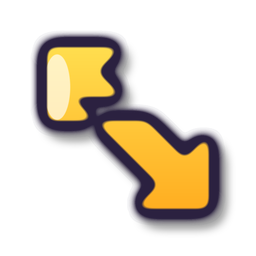
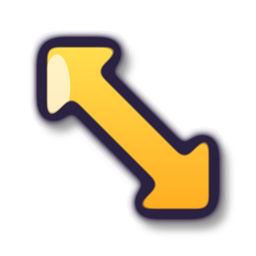
Draw the simple styles' move and resize arrows from convex pieces

Changed region(s): [[0.125, 0.3125, 0.625, 0.5625]]

diff --git a/tools/make_cursors.py b/tools/make_cursors.py
@@ -41,9 +41,6 @@ IBEAM = [(92, 36), (164, 36), (164, 54), (138, 54), (138, 202), (164, 202), (164
 
 HAND = [(104, 12), (124, 12), (132, 20), (132, 96), (160, 96), (168, 104), (168, 110), (190, 110), (198, 118), (198, 124),
         (214, 124), (222, 132), (222, 196), (200, 236), (110, 236), (96, 222), (60, 170), (60, 150), (68, 142), (80, 142), (96, 160), (96, 20)]
-DOUBLE = [(14, 128), (66, 76), (66, 110), (190, 110), (190, 76), (242, 128), (190, 180), (190, 146), (66, 146), (66, 180)]
-MOVE = [(128, 10), (170, 52), (144, 52), (144, 112), (204, 112), (204, 86), (246, 128), (204, 170), (204, 144), (144, 144), (144, 204),
-        (170, 204), (128, 246), (86, 204), (112, 204), (112, 144), (52, 144), (52, 170), (10, 128), (52, 86), (52, 112), (112, 112), (112, 52), (86, 52)]
 UP = [(128, 14), (196, 96), (152, 96), (152, 236), (104, 236), (104, 96), (60, 96)]
 PEN = [(20, 236), (38, 190), (184, 44), (212, 72), (66, 218)]
 
@@ -51,6 +48,20 @@ PEN = [(20, 236), (38, 190), (184, 44), (212, 72), (66, 218)]
 def rotated(points, angle, c=(128, 128)):
     a = math.radians(angle)
     return [(c[0] + (x - c[0]) * math.cos(a) - (y - c[1]) * math.sin(a), c[1] + (x - c[0]) * math.sin(a) + (y - c[1]) * math.cos(a)) for x, y in points]
+
+
+def rect(x0, y0, x1, y1):
+    return [(x0, y0), (x1, y0), (x1, y1), (x0, y1)]
+
+
+# The arrows as convex pieces: Pillow 11 fills some of the whole outlines wrongly (a corner missing or extra).
+DOUBLE_PARTS = [rect(64, 110, 192, 146), [(14, 128), (66, 76), (66, 180)], [(242, 128), (190, 76), (190, 180)]]
+MOVE_PARTS = [rect(112, 50, 144, 206), rect(50, 112, 206, 144), [(128, 10), (170, 52), (86, 52)], [(246, 128), (204, 86), (204, 170)],
+              [(128, 246), (86, 204), (170, 204)], [(10, 128), (52, 86), (52, 170)]]
+
+
+def double(angle):
+    return [rotated(part, angle) for part in DOUBLE_PARTS]
 
 
 def scaled(points, k):
@@ -71,11 +82,11 @@ def more_shapes(normal, normal_hot):
                                 ellipses=[(120, 120, 136, 136)]), centre),
         "pen": (mask_from(polygons=[PEN]), (20, 236)),
         "unavailable": (mask_from(rings=[(128, 128, 86, 26, 0)], lines=[(70, 70, 186, 186, 26)]), centre),
-        "ns": (mask_from(polygons=[rotated(DOUBLE, 90)]), centre),
-        "ew": (mask_from(polygons=[DOUBLE]), centre),
-        "nwse": (mask_from(polygons=[rotated(DOUBLE, 45)]), centre),
-        "nesw": (mask_from(polygons=[rotated(DOUBLE, -45)]), centre),
-        "move": (mask_from(polygons=[MOVE]), centre),
+        "ns": (mask_from(polygons=double(90)), centre),
+        "ew": (mask_from(polygons=double(0)), centre),
+        "nwse": (mask_from(polygons=double(45)), centre),
+        "nesw": (mask_from(polygons=double(-45)), centre),
+        "move": (mask_from(polygons=MOVE_PARTS), centre),
         "up": (mask_from(polygons=[UP]), (128, 16)),
         "location": (mask_from(polygons=[small, [(166, 190), (222, 190), (194, 248)]], ellipses=[(162, 142, 226, 206)]), small_hot),
         "person": (mask_from(polygons=[small], ellipses=[(174, 134, 214, 174), (152, 182, 236, 262)]), small_hot),

diff --git a/CHANGELOG.md b/CHANGELOG.md
@@ -2,6 +2,9 @@
 
 Updating: replace `MagicRemote.exe`, then open it → **TV** tab → **Install on TV**. The pairing is kept. From 1.4.0 the PC tells you when the TV app needs updating; patch versions (1.4.x) only need it when noted below.
 
+## 1.7.5 (TV app 1.4.3: no need to reinstall it if you have 1.4.3)
+- Fixed: the move and diagonal resize pointers of Drop, Classic, Cartoon and Retro had missing or extra corners.
+
 ## 1.7.4 (TV app 1.4.3: no need to reinstall it if you have 1.4.3)
 - The mouse wheel scrolls the page instead of changing a list it passes over.
 - Fixed: the first click on a list didn't open it.
